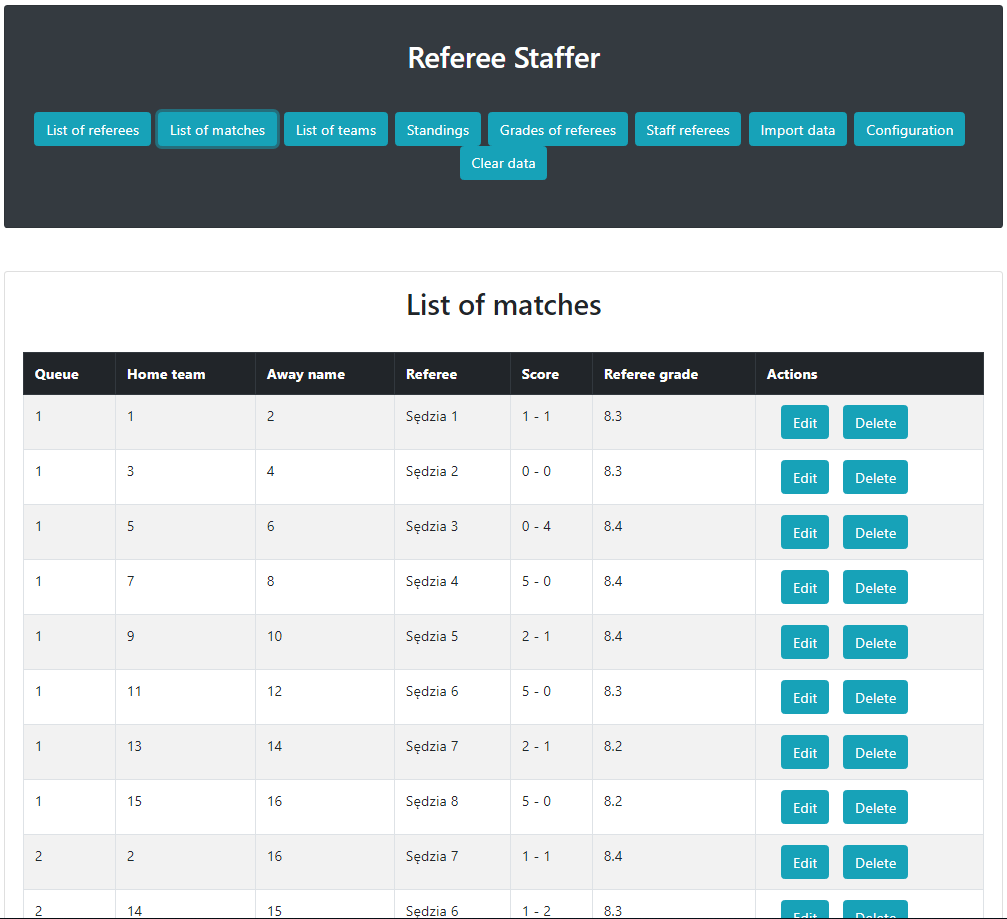
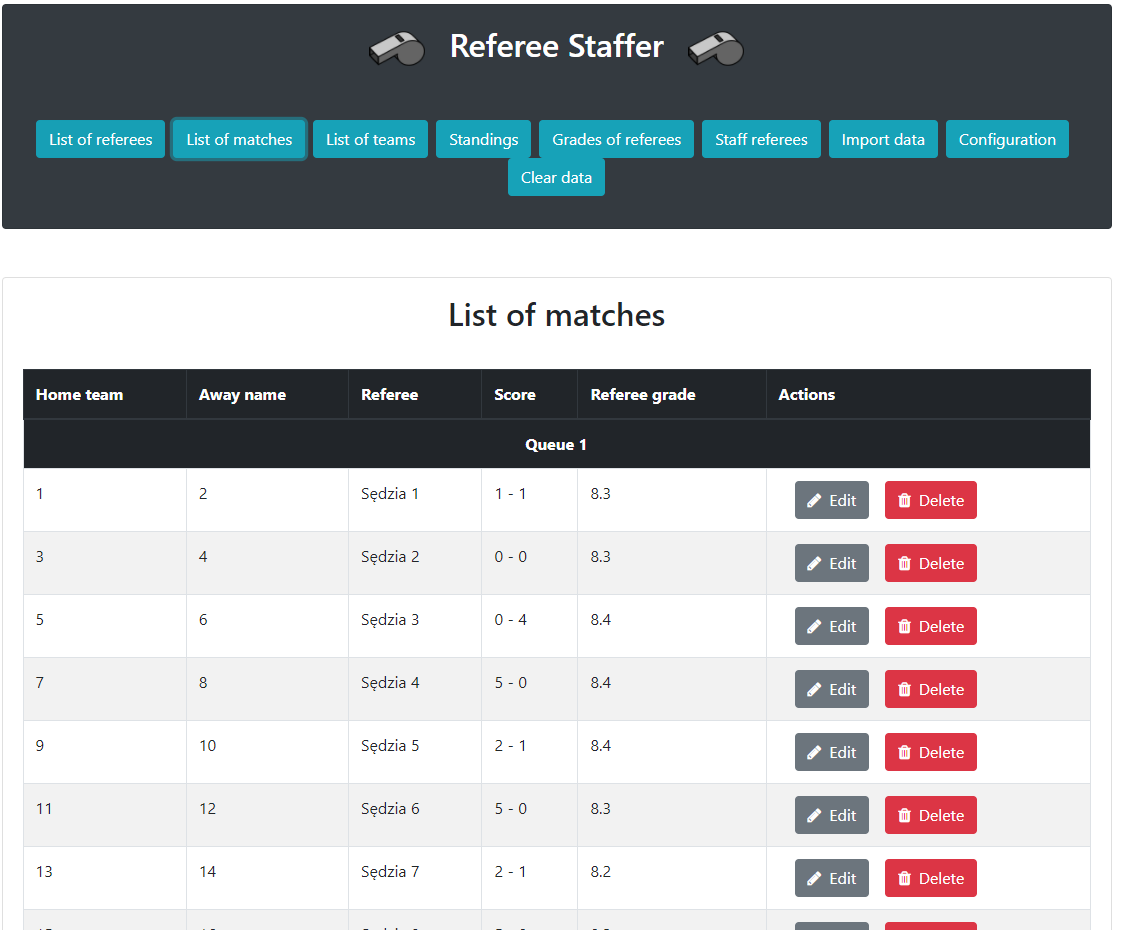
Changed screenshots to actual ones

diff --git a/src/main/webapp/src/app/component/common/header/header.component.html b/src/main/webapp/src/app/component/common/header/header.component.html
@@ -1,41 +1,39 @@
 <div class="card bg-dark my-5">
-  <div class="card-body">
-    <div class="card-title text-center py-3 text-white">
-      <h2 routerLink="">
-        <img src="favicon.ico" alt="{{title}}" class="mx-3" width="5%"/>
-        {{ title }}
-        <img src="favicon.ico" alt="{{title}}" class="mx-3" width="5%"/>
-      </h2>
-    </div>
-    <ul class="text-center list-inline py-3">
-      <li class="list-inline-item">
-        <a routerLink="/referees" class="btn btn-info">List of referees</a>
-      </li>
-      <li class="list-inline-item">
-        <a routerLink="/matches" class="btn btn-info">List of matches</a>
-      </li>
-      <li class="list-inline-item">
-        <a routerLink="/teams" class="btn btn-info">List of teams</a>
-      </li>
-      <li class="list-inline-item">
-        <a routerLink="/standings" class="btn btn-info">Standings</a>
-      </li>
-      <li class="list-inline-item">
-        <a routerLink="/grades" class="btn btn-info">Grades of referees</a>
-      </li>
-      <li class="list-inline-item">
-        <a routerLink="/staffer" class="btn btn-info">Staff referees</a>
-      </li>
-      <!-- TODO add this button only for dev and local -->
-      <li class="list-inline-item">
-        <a routerLink="/importer" class="btn btn-info">Import data</a>
-      </li>
-      <li class="list-inline-item">
-        <a routerLink="/configuration" class="btn btn-info">Configuration</a>
-      </li>
-      <li class="list-inline-item">
-        <a (click)="clearData()" routerLink="" class="btn btn-info">Clear data</a>
-      </li>
-    </ul>
+  <div class="card-title text-center py-3 text-white">
+    <h2 routerLink="">
+      <img src="favicon.ico" alt="{{title}}" class="mx-3" width="5%"/>
+      {{ title }}
+      <img src="favicon.ico" alt="{{title}}" class="mx-3" width="5%"/>
+    </h2>
   </div>
+  <ul class="text-center list-inline py-3">
+    <li class="list-inline-item">
+      <a routerLink="/referees" class="btn btn-info">List of referees</a>
+    </li>
+    <li class="list-inline-item">
+      <a routerLink="/matches" class="btn btn-info">List of matches</a>
+    </li>
+    <li class="list-inline-item">
+      <a routerLink="/teams" class="btn btn-info">List of teams</a>
+    </li>
+    <li class="list-inline-item">
+      <a routerLink="/standings" class="btn btn-info">Standings</a>
+    </li>
+    <li class="list-inline-item">
+      <a routerLink="/grades" class="btn btn-info">Grades of referees</a>
+    </li>
+    <li class="list-inline-item">
+      <a routerLink="/staffer" class="btn btn-info">Staff referees</a>
+    </li>
+    <!-- TODO add this button only for dev and local -->
+    <li class="list-inline-item">
+      <a routerLink="/importer" class="btn btn-info">Import data</a>
+    </li>
+    <li class="list-inline-item">
+      <a routerLink="/configuration" class="btn btn-info">Configuration</a>
+    </li>
+    <li class="list-inline-item">
+      <a (click)="clearData()" routerLink="" class="btn btn-info">Clear data</a>
+    </li>
+  </ul>
 </div>

diff --git a/src/main/webapp/src/app/component/common/footer/footer.component.html b/src/main/webapp/src/app/component/common/footer/footer.component.html
@@ -1,11 +1,13 @@
-<div class="row card-footer">
-  <div class="col-6">
-    <p>{{copyright}}</p>
-  </div>
-  <div class="col-6 text-right">
-    <a href="{{linkedInUrl}}" class="fa fa-linkedin-square mx-2" target="_blank"></a>
-    <a href="{{facebookUrl}}" class="fa fa-facebook-square mx-2" target="_blank"></a>
-    <a href="{{steamUrl}}" class="fa fa-steam-square mx-2" target="_blank"></a>
-    <a href="{{email}}" class="fa fa-envelope mx-2" target="_blank"></a>
+<div class="card-footer">
+  <div class="row">
+    <div class="col-6">
+      <p>{{copyright}}</p>
+    </div>
+    <div class="col-6 text-right">
+      <a href="{{linkedInUrl}}" class="fa fa-linkedin-square mx-2" target="_blank"></a>
+      <a href="{{facebookUrl}}" class="fa fa-facebook-square mx-2" target="_blank"></a>
+      <a href="{{steamUrl}}" class="fa fa-steam-square mx-2" target="_blank"></a>
+      <a href="{{email}}" class="fa fa-envelope mx-2" target="_blank"></a>
+    </div>
   </div>
 </div>

diff --git a/README.md b/README.md
@@ -53,11 +53,18 @@ where
 
 ## Sample screenshots
 
-* Adding data
-  ![](data/screenshots/addReferee.png)
-* Changing configuration
-  ![](data/screenshots/configuration.png)
-* List of matches
-  ![](data/screenshots/listOfMatches.png)
-* Staffer
-  ![](data/screenshots/staffer.png)
+### Adding data (referees, teams, matches)
+
+![](data/screenshots/addReferee.png)
+
+### Changing configuration
+
+![](data/screenshots/configuration.png)
+
+### List of matches
+
+![](data/screenshots/listOfMatches.png)
+
+### Staffer
+
+![](data/screenshots/staffer.png)
